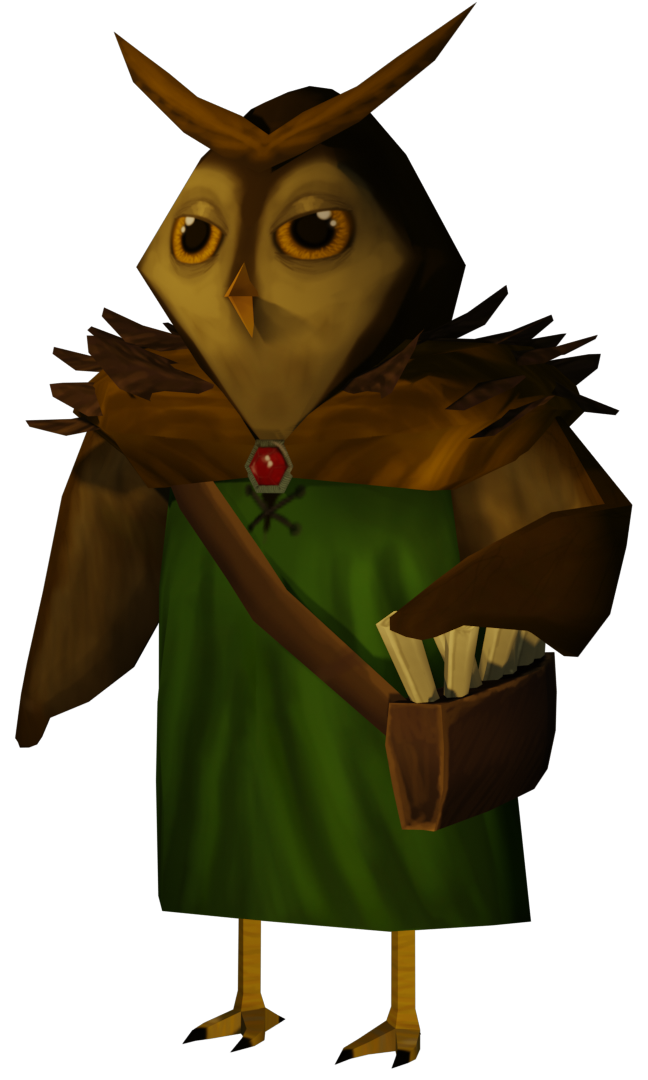
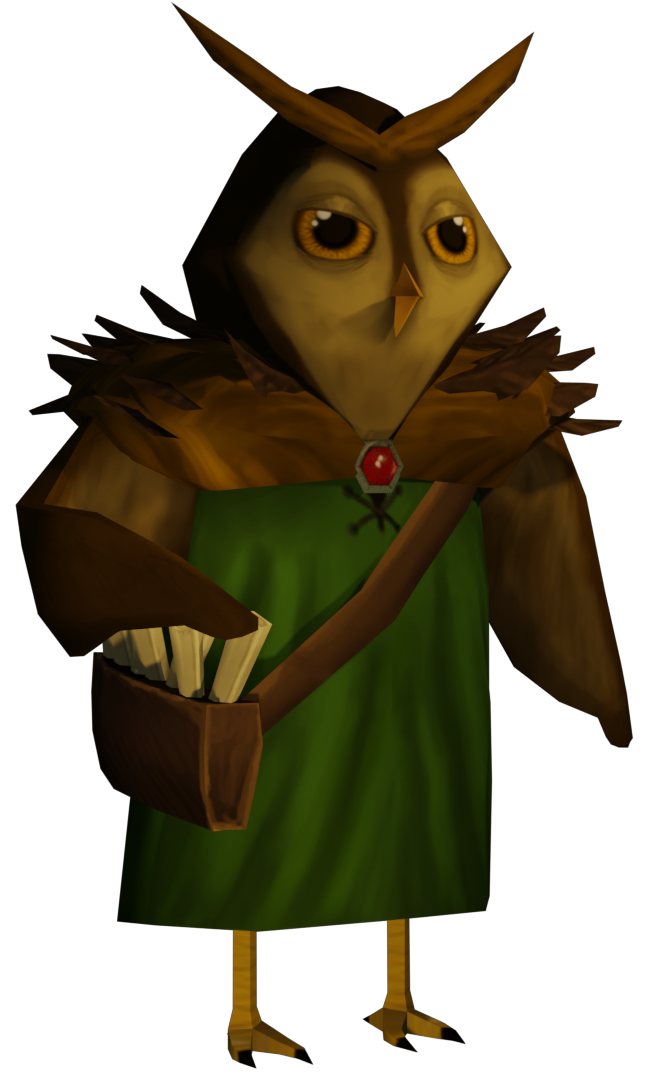
arreglando los muñecos

diff --git a/1990.html b/1990.html
@@ -54,21 +54,20 @@
         </div>
     </div>
     <div class="pegman-container" id="pegman-container">
-        <img src="/Imagenes/normi.png" alt="Pegman" id="pegman" class="pegman-image">
+        <img src="/Imagenes/normi_lado.png" alt="Pegman" id="pegman" class="pegman-image">
     </div>
     <div class="back-to-index">
         <a href="index.html">Volver</a>
         <script>
-            // Obtiene el rol de la URL
-            const params = new URLSearchParams(window.location.search);
-            const rol = params.get('rol');
+            // Obtiene el rol seleccionado almacenado en localStorage
+            const selectedRol = localStorage.getItem('selectedRol');
             const pegman = document.getElementById('pegman');
     
-            // Cambia la imagen de pegman según el rol seleccionado
-            if (rol === 'estudiante') {
-                pegman.src = '/Imagenes/normi.png'; // Ruta de la imagen de estudiante
-            } else if (rol === 'colaborador') {
-                pegman.src = '/Imagenes/owl.png'; // Ruta de la imagen de colaborador
+            // Cambia la imagen de Pegman según el rol seleccionado
+            if (selectedRol === 'estudiante') {
+                pegman.src = '/Imagenes/normi_lado.png'; // Ruta de la imagen de estudiante
+            } else if (selectedRol === 'colaborador') {
+                pegman.src = '/Imagenes/owl_lado.png'; // Ruta de la imagen de colaborador
             }
         </script>
     </div>

diff --git a/2000.html b/2000.html
@@ -56,21 +56,20 @@
         </div>
     </div>
     <div class="pegman-container" id="pegman-container">
-        <img src="/Imagenes/normi.png" alt="Pegman" id="pegman" class="pegman-image">
+        <img src="/Imagenes/normi_lado.png" alt="Pegman" id="pegman" class="pegman-image">
     </div>
     <div class="back-to-index">
         <a href="index.html">Volver</a>
         <script>
-            // Obtiene el rol de la URL
-            const params = new URLSearchParams(window.location.search);
-            const rol = params.get('rol');
+            // Obtiene el rol seleccionado almacenado en localStorage
+            const selectedRol = localStorage.getItem('selectedRol');
             const pegman = document.getElementById('pegman');
     
-            // Cambia la imagen de pegman según el rol seleccionado
-            if (rol === 'estudiante') {
-                pegman.src = '/Imagenes/normi.png'; // Ruta de la imagen de estudiante
-            } else if (rol === 'colaborador') {
-                pegman.src = '/Imagenes/owl.png'; // Ruta de la imagen de colaborador
+            // Cambia la imagen de Pegman según el rol seleccionado
+            if (selectedRol === 'estudiante') {
+                pegman.src = '/Imagenes/normi_lado.png'; // Ruta de la imagen de estudiante
+            } else if (selectedRol === 'colaborador') {
+                pegman.src = '/Imagenes/owl_lado.png'; // Ruta de la imagen de colaborador
             }
         </script>
     </div>

diff --git a/2010.html b/2010.html
@@ -54,21 +54,20 @@
         </div>
     </div>
     <div class="pegman-container" id="pegman-container">
-        <img src="/Imagenes/normi.png" alt="Pegman" id="pegman" class="pegman-image">
+        <img src="/Imagenes/normi_lado.png" alt="Pegman" id="pegman" class="pegman-image">
     </div>
     <div class="back-to-index">
         <a href="index.html">Volver</a>
         <script>
-            // Obtiene el rol de la URL
-            const params = new URLSearchParams(window.location.search);
-            const rol = params.get('rol');
+            // Obtiene el rol seleccionado almacenado en localStorage
+            const selectedRol = localStorage.getItem('selectedRol');
             const pegman = document.getElementById('pegman');
     
-            // Cambia la imagen de pegman según el rol seleccionado
-            if (rol === 'estudiante') {
-                pegman.src = '/Imagenes/normi.png'; // Ruta de la imagen de estudiante
-            } else if (rol === 'colaborador') {
-                pegman.src = '/Imagenes/owl.png'; // Ruta de la imagen de colaborador
+            // Cambia la imagen de Pegman según el rol seleccionado
+            if (selectedRol === 'estudiante') {
+                pegman.src = '/Imagenes/normi_lado.png'; // Ruta de la imagen de estudiante
+            } else if (selectedRol === 'colaborador') {
+                pegman.src = '/Imagenes/owl_lado.png'; // Ruta de la imagen de colaborador
             }
         </script>
     </div>

diff --git a/1970.html b/1970.html
@@ -69,24 +69,23 @@
         
     </div>
         
-    </div>
+
     <div class="pegman-container" id="pegman-container">
-        <img src="/Imagenes/normi.png" alt="Pegman" id="pegman" class="pegman-image">
+        <img src="" alt="Pegman" id="pegman" class="pegman-image">
     </div>
 
     <div class="back-to-index">
         <a href="index.html">Volver</a>
         <script>
-            // Obtiene el rol de la URL
-            const params = new URLSearchParams(window.location.search);
-            const rol = params.get('rol');
+            // Obtiene el rol seleccionado almacenado en localStorage
+            const selectedRol = localStorage.getItem('selectedRol');
             const pegman = document.getElementById('pegman');
     
-            // Cambia la imagen de pegman según el rol seleccionado
-            if (rol === 'estudiante') {
-                pegman.src = '/Imagenes/normi.png'; // Ruta de la imagen de estudiante
-            } else if (rol === 'colaborador') {
-                pegman.src = '/Imagenes/owl.png'; // Ruta de la imagen de colaborador
+            // Cambia la imagen de Pegman según el rol seleccionado
+            if (selectedRol === 'estudiante') {
+                pegman.src = '/Imagenes/normi_lado.png'; // Ruta de la imagen de estudiante
+            } else if (selectedRol === 'colaborador') {
+                pegman.src = '/Imagenes/owl_lado.png'; // Ruta de la imagen de colaborador
             }
         </script>
     </div>

diff --git a/1980.html b/1980.html
@@ -68,21 +68,20 @@
 
     </div>
     <div class="pegman-container" id="pegman-container">
-        <img src="/Imagenes/normi.png" alt="Pegman" id="pegman" class="pegman-image">
+        <img src="/Imagenes/normi_lado.png" alt="Pegman" id="pegman" class="pegman-image">
     </div>
     <div class="back-to-index">
         <a href="index.html">Volver</a>
         <script>
-            // Obtiene el rol de la URL
-            const params = new URLSearchParams(window.location.search);
-            const rol = params.get('rol');
+            // Obtiene el rol seleccionado almacenado en localStorage
+            const selectedRol = localStorage.getItem('selectedRol');
             const pegman = document.getElementById('pegman');
-
-            // Cambia la imagen de pegman según el rol seleccionado
-            if (rol === 'estudiante') {
-                pegman.src = '/Imagenes/normi.png'; // Ruta de la imagen de estudiante
-            } else if (rol === 'colaborador') {
-                pegman.src = '/Imagenes/owl.png'; // Ruta de la imagen de colaborador
+    
+            // Cambia la imagen de Pegman según el rol seleccionado
+            if (selectedRol === 'estudiante') {
+                pegman.src = '/Imagenes/normi_lado.png'; // Ruta de la imagen de estudiante
+            } else if (selectedRol === 'colaborador') {
+                pegman.src = '/Imagenes/owl_lado.png'; // Ruta de la imagen de colaborador
             }
         </script>
 

diff --git a/style2000.css b/style2000.css
@@ -197,14 +197,14 @@ h2 {
   background-color: #333; /* Color de fondo del botón al pasar el cursor (oscuro) */
   color: #ffffff; /* Color del texto del botón al pasar el cursor (claro) */
 }
+
 .pegman-container {
-  position: absolute;
-  top: 60%;    /* Alinea el "Pegman" verticalmente en la mitad de la página */
-  left: 5%;    /* Ajusta la distancia desde la parte izquierda según tus necesidades */
-  transform: translate(-50%, -50%);    /* Centra verticalmente el "Pegman" */
+  position: fixed; /* Cambia a posición fija */
+  top: 80%;        /* Alinea el "Pegman" verticalmente en la mitad de la página */
+  left: 5%;       /* Ajusta la distancia desde la parte izquierda según tus necesidades */
+  transform: translate(-50%, -50%); /* Centra verticalmente el "Pegman" */
   z-index: 2;
 }
-
 /* Estilos para la imagen del "pegman" */
 .pegman-image {
   width: 120px;

diff --git a/style1990.css b/style1990.css
@@ -197,11 +197,12 @@ h2 {
   background-color: #333; /* Color de fondo del botón al pasar el cursor (oscuro) */
   color: #ffffff; /* Color del texto del botón al pasar el cursor (claro) */
 }
+
 .pegman-container {
-  position: absolute;
-  top: 60%;    /* Alinea el "Pegman" verticalmente en la mitad de la página */
-  left: 5%;    /* Ajusta la distancia desde la parte izquierda según tus necesidades */
-  transform: translate(-50%, -50%);    /* Centra verticalmente el "Pegman" */
+  position: fixed; /* Cambia a posición fija */
+  top: 80%;        /* Alinea el "Pegman" verticalmente en la mitad de la página */
+  left: 5%;       /* Ajusta la distancia desde la parte izquierda según tus necesidades */
+  transform: translate(-50%, -50%); /* Centra verticalmente el "Pegman" */
   z-index: 2;
 }
 

diff --git a/style2010.css b/style2010.css
@@ -198,11 +198,12 @@ h2 {
   background-color: #333; /* Color de fondo del botón al pasar el cursor (oscuro) */
   color: #ffffff; /* Color del texto del botón al pasar el cursor (claro) */
 }
+
 .pegman-container {
-  position: absolute;
-  top: 60%;    /* Alinea el "Pegman" verticalmente en la mitad de la página */
-  left: 5%;    /* Ajusta la distancia desde la parte izquierda según tus necesidades */
-  transform: translate(-50%, -50%);    /* Centra verticalmente el "Pegman" */
+  position: fixed; /* Cambia a posición fija */
+  top: 80%;        /* Alinea el "Pegman" verticalmente en la mitad de la página */
+  left: 5%;       /* Ajusta la distancia desde la parte izquierda según tus necesidades */
+  transform: translate(-50%, -50%); /* Centra verticalmente el "Pegman" */
   z-index: 2;
 }
 

diff --git a/style1980.css b/style1980.css
@@ -252,11 +252,12 @@ h2 {
   background-color: #333; /* Cambia el fondo al pasar el cursor (oscuro) */
   color: #ffffff; /* Cambia el color del texto al pasar el cursor (claro) */
 }
+
 .pegman-container {
-  position: absolute;
-  top: 60%;    /* Alinea el "Pegman" verticalmente en la mitad de la página */
-  left: 5%;    /* Ajusta la distancia desde la parte izquierda según tus necesidades */
-  transform: translate(-50%, -50%);    /* Centra verticalmente el "Pegman" */
+  position: fixed; /* Cambia a posición fija */
+  top: 80%;        /* Alinea el "Pegman" verticalmente en la mitad de la página */
+  left: 5%;       /* Ajusta la distancia desde la parte izquierda según tus necesidades */
+  transform: translate(-50%, -50%); /* Centra verticalmente el "Pegman" */
   z-index: 2;
 }
 

diff --git a/style.css b/style.css
@@ -106,7 +106,7 @@ h3 {
     display: flex;
     justify-content: center;
     align-items: center;
-    padding-top: 15px;
+    padding: 100px;
 }
 
 .icons-button-50anos {
@@ -166,7 +166,7 @@ h3 {
 /* Estilos para el contenedor del "pegman" */
 .pegman-container {
     position: absolute;
-    top: 60%;    /* Alinea el "Pegman" verticalmente en la mitad de la página */
+    top: 65%;    /* Alinea el "Pegman" verticalmente en la mitad de la página */
     left: 50%;    /* Ajusta la distancia desde la parte izquierda según tus necesidades */
     transform: translate(-50%, -50%);    /* Centra verticalmente el "Pegman" */
     z-index: 2;

diff --git a/style1970.css b/style1970.css
@@ -254,10 +254,10 @@ h2 {
 }
 
 .pegman-container {
-  position: absolute;
-  top: 60%;    /* Alinea el "Pegman" verticalmente en la mitad de la página */
-  left: 5%;    /* Ajusta la distancia desde la parte izquierda según tus necesidades */
-  transform: translate(-50%, -50%);    /* Centra verticalmente el "Pegman" */
+  position: fixed; /* Cambia a posición fija */
+  top: 80%;        /* Alinea el "Pegman" verticalmente en la mitad de la página */
+  left: 5%;       /* Ajusta la distancia desde la parte izquierda según tus necesidades */
+  transform: translate(-50%, -50%); /* Centra verticalmente el "Pegman" */
   z-index: 2;
 }
 

diff --git a/script.js b/script.js
@@ -26,7 +26,7 @@ document.addEventListener('DOMContentLoaded', function () {
     on: {
       slideChange: function () {
         const currentIndex = swiper.activeIndex;
-        const slideColors = ["#131547", "#835232", "#0f2404", "#8D2527", "#983B27"];
+        const slideColors = ["#131547", "#835232", "#173607", "#8D2527", "#983B27"];
 
         if (currentIndex >= 0 && currentIndex < slideColors.length) {
           const backgroundColor = slideColors[currentIndex];
